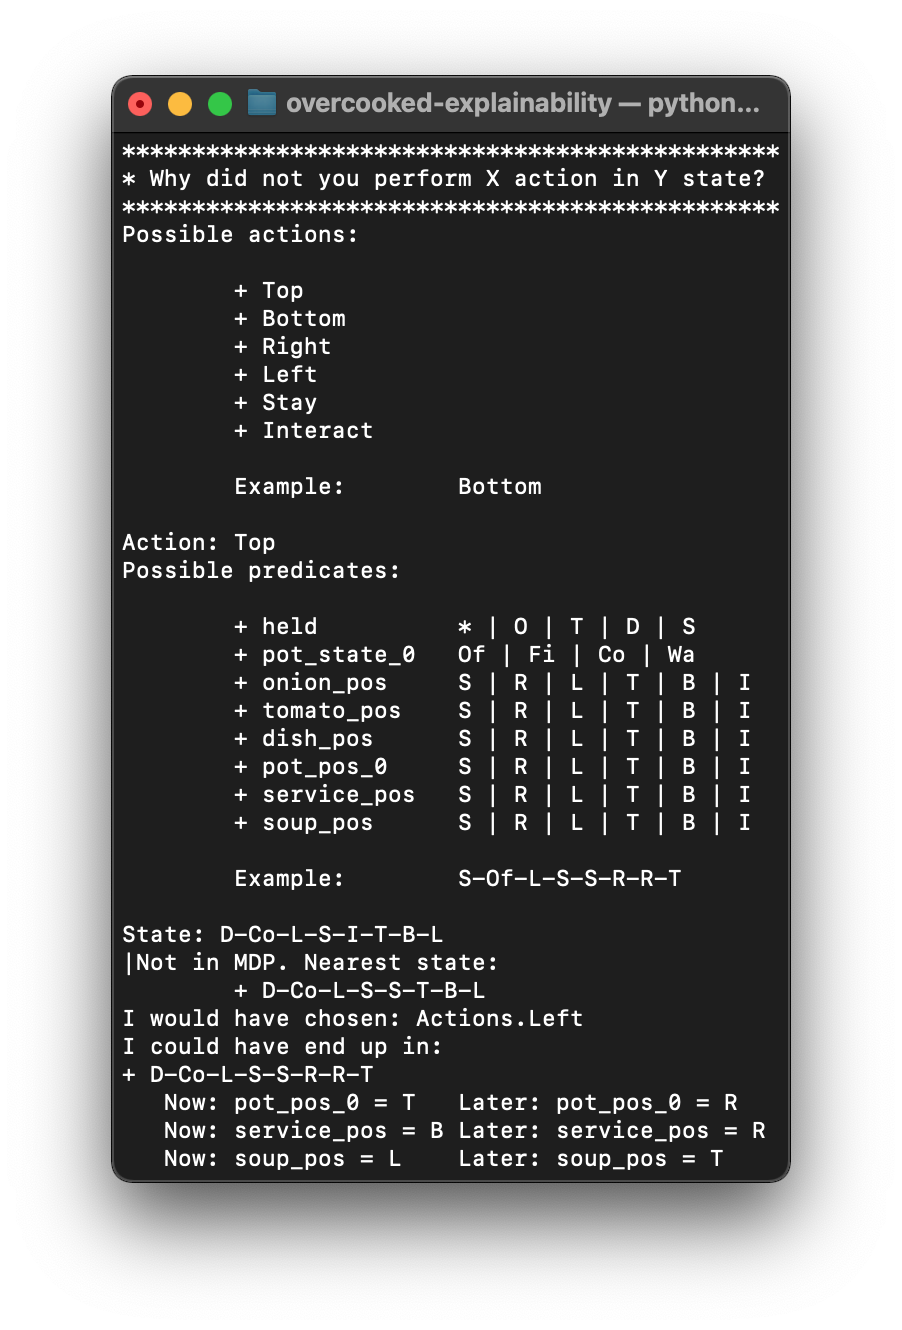
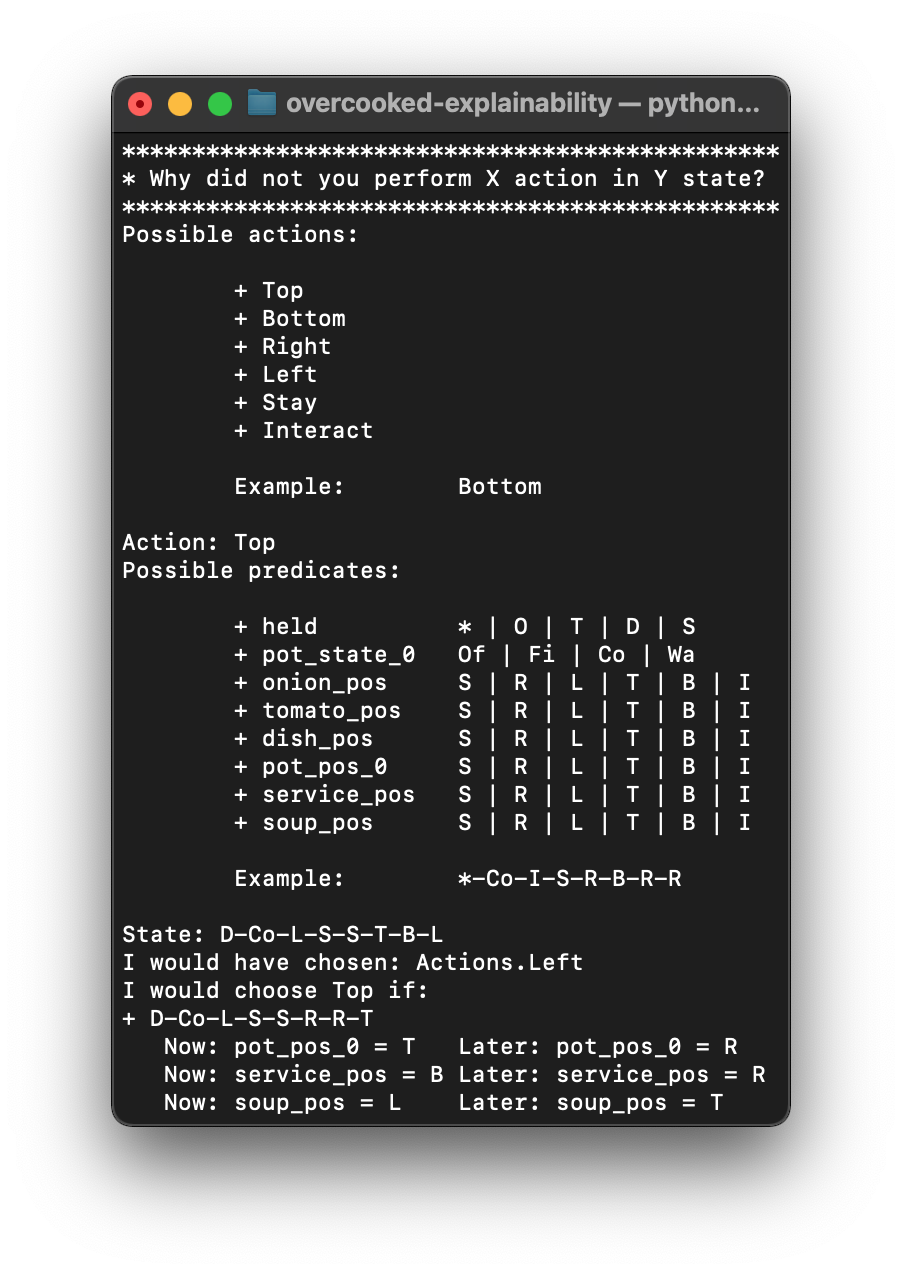
V 2.2.3 - Delete Files

diff --git a/Code/MDP_Models/legend.html b/Code/MDP_Models/legend.html
@@ -50,7 +50,7 @@
         
 
         // parsing and collecting nodes and edges from the python
-        nodes = new vis.DataSet([{"color": "#FF6B6B", "font": {"size": 20}, "id": 5992, "label": "top", "physics": false, "shape": "dot", "size": 30, "widthConstraint": 50, "x": 0, "y": "-150.0px"}, {"color": "#4D96FF", "font": {"size": 20}, "id": 5993, "label": "bottom", "physics": false, "shape": "dot", "size": 30, "widthConstraint": 50, "x": 0, "y": "-50.0px"}, {"color": "#6BCB77", "font": {"size": 20}, "id": 5994, "label": "right", "physics": false, "shape": "dot", "size": 30, "widthConstraint": 50, "x": 0, "y": "50.0px"}, {"color": "#FFD93D", "font": {"size": 20}, "id": 5995, "label": "left", "physics": false, "shape": "dot", "size": 30, "widthConstraint": 50, "x": 0, "y": "150.0px"}, {"color": "#525E75", "font": {"size": 20}, "id": 5996, "label": "stay", "physics": false, "shape": "dot", "size": 30, "widthConstraint": 50, "x": 0, "y": "250.0px"}, {"color": "#FF7BA9", "font": {"size": 20}, "id": 5997, "label": "interact", "physics": false, "shape": "dot", "size": 30, "widthConstraint": 50, "x": 0, "y": "350.0px"}]);
+        nodes = new vis.DataSet([{"color": "#FF6B6B", "font": {"size": 20}, "id": 579, "label": "top", "physics": false, "shape": "dot", "size": 30, "widthConstraint": 50, "x": 0, "y": "-150.0px"}, {"color": "#4D96FF", "font": {"size": 20}, "id": 580, "label": "bottom", "physics": false, "shape": "dot", "size": 30, "widthConstraint": 50, "x": 0, "y": "-50.0px"}, {"color": "#6BCB77", "font": {"size": 20}, "id": 581, "label": "right", "physics": false, "shape": "dot", "size": 30, "widthConstraint": 50, "x": 0, "y": "50.0px"}, {"color": "#FFD93D", "font": {"size": 20}, "id": 582, "label": "left", "physics": false, "shape": "dot", "size": 30, "widthConstraint": 50, "x": 0, "y": "150.0px"}, {"color": "#525E75", "font": {"size": 20}, "id": 583, "label": "stay", "physics": false, "shape": "dot", "size": 30, "widthConstraint": 50, "x": 0, "y": "250.0px"}, {"color": "#FF7BA9", "font": {"size": 20}, "id": 584, "label": "interact", "physics": false, "shape": "dot", "size": 30, "widthConstraint": 50, "x": 0, "y": "350.0px"}]);
         edges = new vis.DataSet([]);
 
         // adding nodes and edges to the graph

diff --git a/Code/plot_pg.py b/Code/plot_pg.py
@@ -1,0 +1,31 @@
+import networkx as nx
+from pyvis.network import Network
+
+def plot_interactive(options, show_options=True):
+    # Creating a PG example
+    pg = nx.DiGraph()
+    pg.add_nodes_from([2, 3])
+    pg.add_nodes_from(range(100, 110))
+    H = nx.path_graph(10)
+    pg.add_nodes_from(H)
+
+
+    # Pyvis graph
+    nt = Network(height=f"400px", width=f"400px", directed=True)
+
+    # Convert networkx graph into pyvis graph
+    nt.from_nx(pg)
+
+    # Show options if requested
+    if show_options:
+        nt.show_buttons()
+    else:
+        nt.set_options(options)
+
+    # Save the html file
+    nt.show('pg.html')
+
+if __name__ == "__main__":
+
+    options = ""
+    plot_interactive(show_options=True, options="")

diff --git a/ask_xai_questions.py b/ask_xai_questions.py
@@ -17,10 +17,10 @@ if __name__ == '__main__':
     # layouts =     ['simple', 'unident_s', 'random0', 'random1', 'random3']
 
     # Run one experiment only
-    experiment = Experiment(id='2_Experiment_500_25', rl_agent_id='_random3_1M',
-                            discretizer=Discretizer14,
+    experiment = Experiment(id='2_Experiment_500_25', rl_agent_id='_simple1M',
+                            discretizer=Discretizer11,
                             pg_algorithm=CompletePolicyGraph,
-                            layout='random3',
+                            layout='simple',
                             description="")
     experiment.run(train=False,
                    test=False,

diff --git a/Code/Explainability/PolicyGraph.py b/Code/Explainability/PolicyGraph.py
@@ -603,7 +603,7 @@ class PolicyGraph(ABC):
         result = self.nearby_predicates(predicate)
         best_action = self.select_action_using_mdp(predicate, verbose=False)
         print('I would have chosen:', best_action)
-        print("I could have end up in:")
+        print(f"I would choose {action} if:")
         any_explanation = False
         for a, v, diff in result:
             # Only if performs the input action

diff --git a/Code/Explainability/NetworkVisualizer.py b/Code/Explainability/NetworkVisualizer.py
@@ -20,11 +20,12 @@ class NetworkVisualizer:
         """
         Constructor.
 
-        pg: Graph
+        pg: Networkx Graph
+        layout: Only needed for saving the file in the corresponding layout folder.
         options: Options for the interactive visualization.
 
         """
-        self.pg: nx.DiGraph = pg
+        self.pg = pg
         self.name = name
         self.layout = layout
         self.options = '''

diff --git a/README.md b/README.md
@@ -1,9 +1,9 @@
 <h1 align="center">
   <br>
-  <a href="https://hpai.bsc.es/"><img src="Images/logo-upc.png" alt="FIB, UPC Logo" width="500"></a>
+  <a href="https://hpai.bsc.es/"><img src="Images/Logos/logo-upc.png" alt="FIB, UPC Logo" width="500"></a>
   <br></br>
     Testing Reinforcement Learning Explainability Methods in a Multi-agent Cooperative Environment 🧑🍳🤖
-	</br>
+    </br>
 </h1>
 <h2 align="center">
   Marc Domènech i Vila, Sergio Álvarez Napagao and Dmitry Gnatyshak
@@ -12,9 +12,6 @@
   High Performance Artificial Intelligence research group (HPAI)
 </h3>
 
-
-
-
 Even though with each passing day the AI gains popularity thanks to its successful application in many domains, the truth is that it also receives a lot of criticism. In particular, people ask themselves if its decisions are well-informed and if they can rely on its decisions. The answers to these questions become crucial in cooperative environments to be understandable to humans and can cooperate with them. In this work, we will apply an approach for explainability based on the creation of a Policy Graph (PG) that represents the agent’s behaviour. This work has two main contributions: the first is a way to measure the similarity between the explanations and the agent’s behaviour, by building another agent that follows a policy based on the explainability method and comparing the behaviour of both agents. The second manages to explain an RL agent in a multi-agent cooperative environment.
 
 # :shallow_pan_of_food: Introduction
@@ -22,8 +19,6 @@ Even though with each passing day the AI gains popularity thanks to its successf
 In this work, we have used [PantheonRL](https://github.com/Stanford-ILIAD/PantheonRL) package for training and testing an agent in the [Overcooked-AI](https://github.com/HumanCompatibleAI/overcooked_ai) environment. Overcooked-AI is a benchmark environment for fully cooperative human-AI task performance, based on the wildly popular video game [Overcooked](http://www.ghosttowngames.com/overcooked). The goal of the game is to deliver soups as fast as possible. Each soup requires placing up to 3 ingredients in a pot, waiting for the soup to cook, and then having an agent pick up the soup and delivering it. The agents should split up tasks on the fly and coordinate effectively in order to achieve high reward. The environment has the following reward function: 3 points if the agent places an onion in a pot or if takes a dish, and 5 points if it takes a soup. Here in this work, we have worked with five different layouts: *simple*, *unident\_s*, *random0*, *random1*, *random3*.
 
 ![layouts](Images/layouts.gif)
-
-
 
 # ✅ Installation
 
@@ -99,19 +94,17 @@ cd Code/Testing
 bash test_GUI.sh 0 simple
 ```
 
-
-
->## 👍 Trained Models
->
->When cloning the repository you will see that in [`rl_models`](rl_models) folder, there are already trained models. Here I attach a brief summary of each one. Each of them have been trained five for 1M total timesteps and with an episode length of 400 steps.
->
->| Layout    | Mean Episode Reward | Standard Deviation |
->| --------- | ------------------- | ------------------ |
->| simple    | 387.87              | 25.33              |
->| unident_s | 757.71              | 53.03              |
->| random0   | 395.01              | 54.43              |
->| random1   | 266.01              | 48.11              |
->| random3   | 62.5                | 5.00               |
+> ## 👍 Trained Models
+> 
+> When cloning the repository you will see that in [`rl_models`](rl_models) folder, there are already trained models. Here I attach a brief summary of each one. Each of them have been trained five for 1M total timesteps and with an episode length of 400 steps.
+> 
+> | Layout    | Mean Episode Reward | Standard Deviation |
+> | --------- | ------------------- | ------------------ |
+> | simple    | 387.87              | 25.33              |
+> | unident_s | 757.71              | 53.03              |
+> | random0   | 395.01              | 54.43              |
+> | random1   | 266.01              | 48.11              |
+> | random3   | 62.5                | 5.00               |
 
 # 🏛 Repo Structure Overview
 
@@ -143,7 +136,6 @@ Here we can see a brief summary of the repo structure.
 - [`Experiment.py`](Code/Experiment.py): Code to reproduce different experiements.
 - [`join_csv_results.py`](Code/join_csv_results.py): Script that joins 2 .csv files into one csv. Used to join Partial and Complete agent results.
 
-
 ## 🦾 PantheonRL Folder
 
 This folder has a lot of files. Here I mention those files that I think are more interesting.
@@ -163,8 +155,6 @@ This folder has a lot of files. Here I mention those files that I think are more
 - Policy Graph Extraction
   - [`overcooked.py`](Code/PantheonRL/overcookedgym/overcooked.py): Implements the `OvercookedMultiEnv(SimultaneousEnv)` class.  I have modified the `multi_step()` in order to also return the observation with the shape we want.
 
-
-
 # 📗 Glossary
 
 ---
@@ -182,8 +172,6 @@ This folder has a lot of files. Here I mention those files that I think are more
 4. Push to the branch (`git push origin feature/AmazingFeature`)
 5. Create a new Pull Request
 
-
-
 # ➕ More Information
 
 ---
@@ -191,8 +179,6 @@ This folder has a lot of files. Here I mention those files that I think are more
 For more information about the project, see the following document: 
 
 - [Paper/TFG (Currently submitted to CCIA 2022)](Testing_Reinforcement_Learning_Explainability_Methods_in_a_Multi_agent_Cooperative_Environment.pdf)
-
-
 
 # 🙋♂ Authors
 
